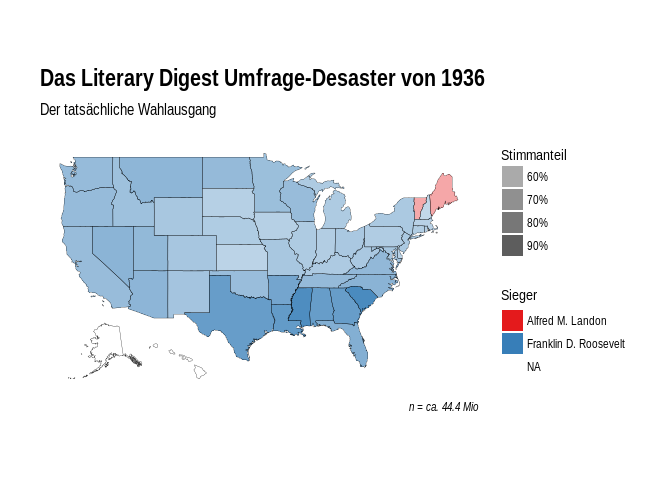
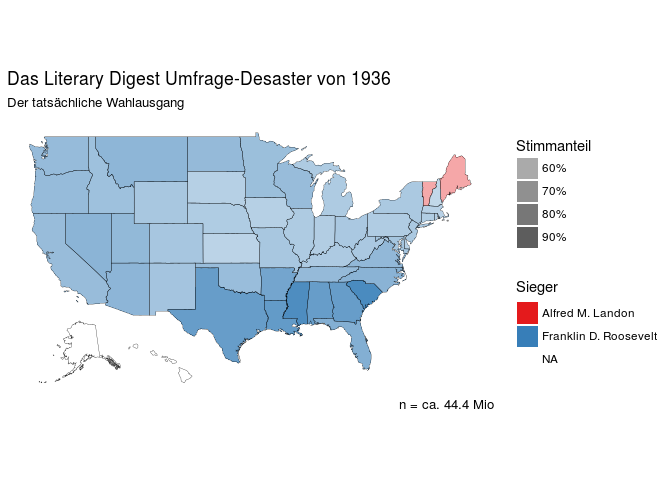
keep it simple

diff --git a/README.md b/README.md
@@ -71,12 +71,16 @@ ggplot() +
        subtitle = "Der tatsächliche Wahlausgang",
        x = NULL, y = NULL, alpha = "Stimmanteil",
        fill = "Sieger", caption = "n = ca. 44.4 Mio") +
-  hrbrthemes::theme_ipsum(axis = FALSE, ticks = FALSE)
+  theme_classic()
 ```
 
     ## Warning: Removed 1 rows containing missing values (geom_path).
 
 ![](README_files/figure-markdown_github/litdig-2.png)
+
+``` r
+  # hrbrthemes::theme_ipsum(axis = FALSE, ticks = FALSE)
+```
 
 NHST-Vokabeln
 -------------
@@ -115,10 +119,14 @@ ggplot(nr, aes(x, y)) +
   labs(title = "Vokabular des Nullhypothesen-Signifikanztests (NHST)",
        subtitle = "am Beispiel der Standardnormalverteilung",
        x = "z-Wert", y = "Dichte") +
-  hrbrthemes::theme_ipsum_tw(grid = FALSE)
+  theme_classic()
 ```
 
 ![](README_files/figure-markdown_github/nhst_voc-1.png)
+
+``` r
+  # hrbrthemes::theme_ipsum_tw(grid = FALSE)
+```
 
 Yerkes-Dodson Gesetz
 --------------------
